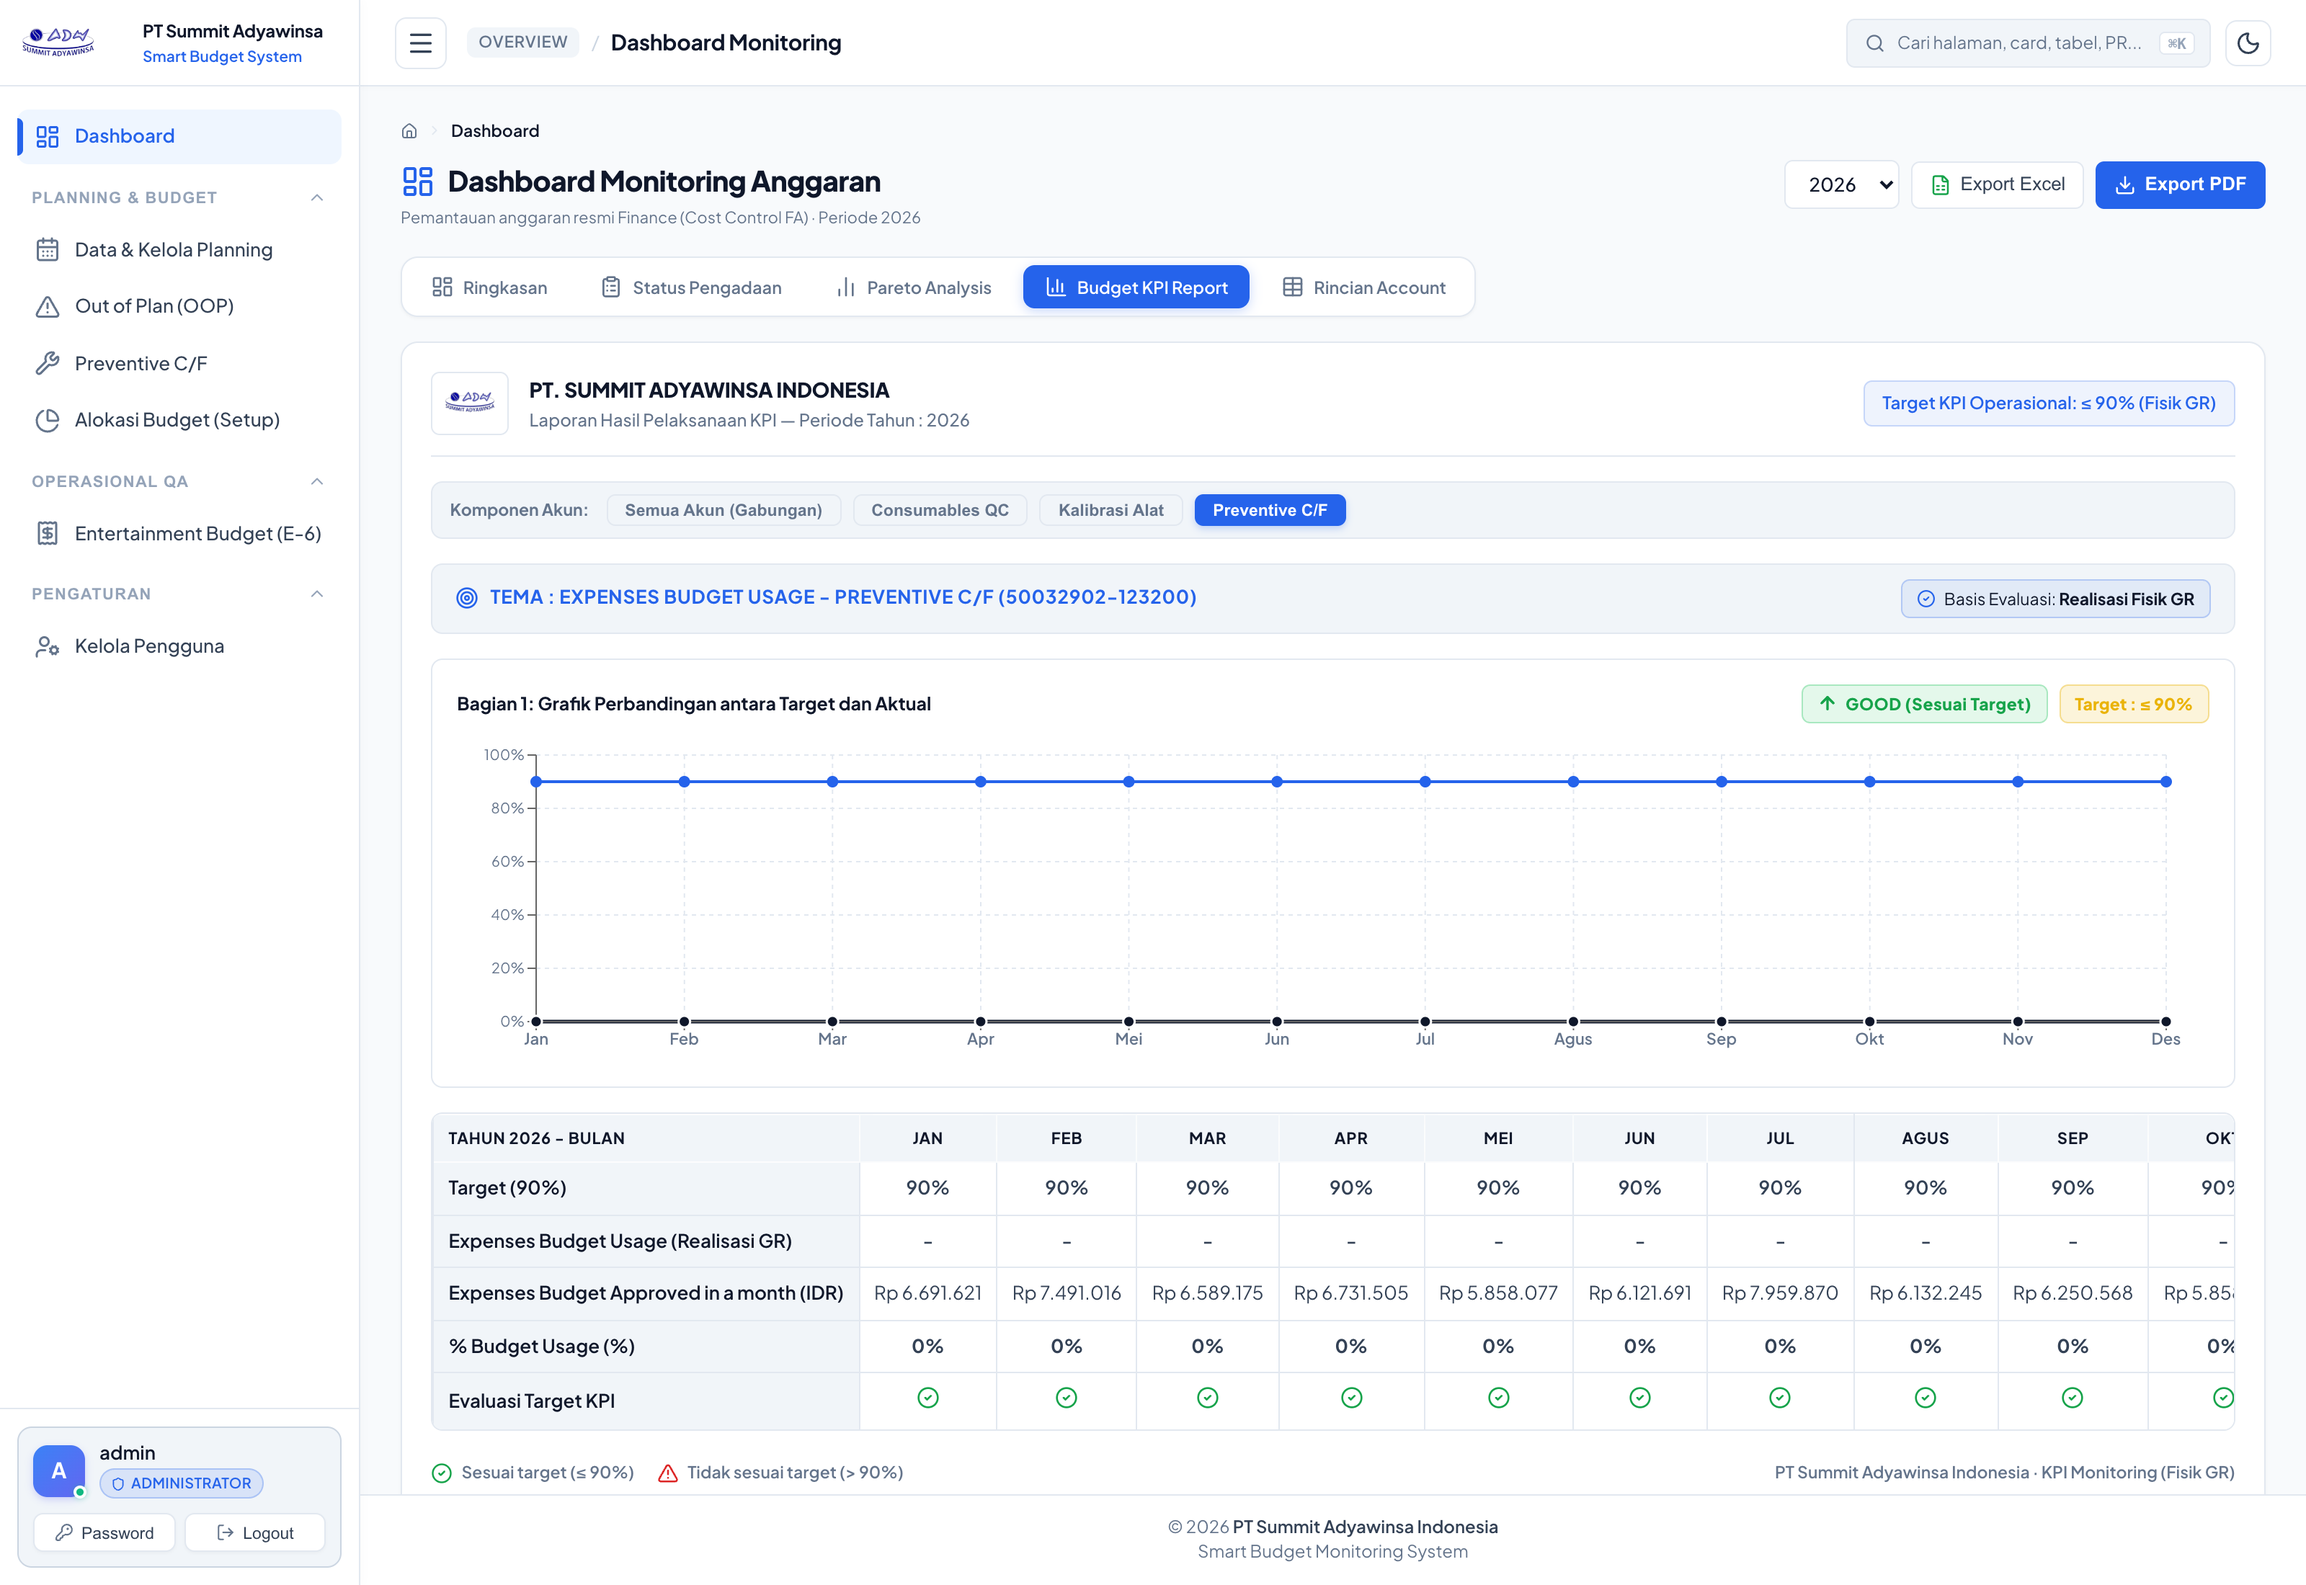
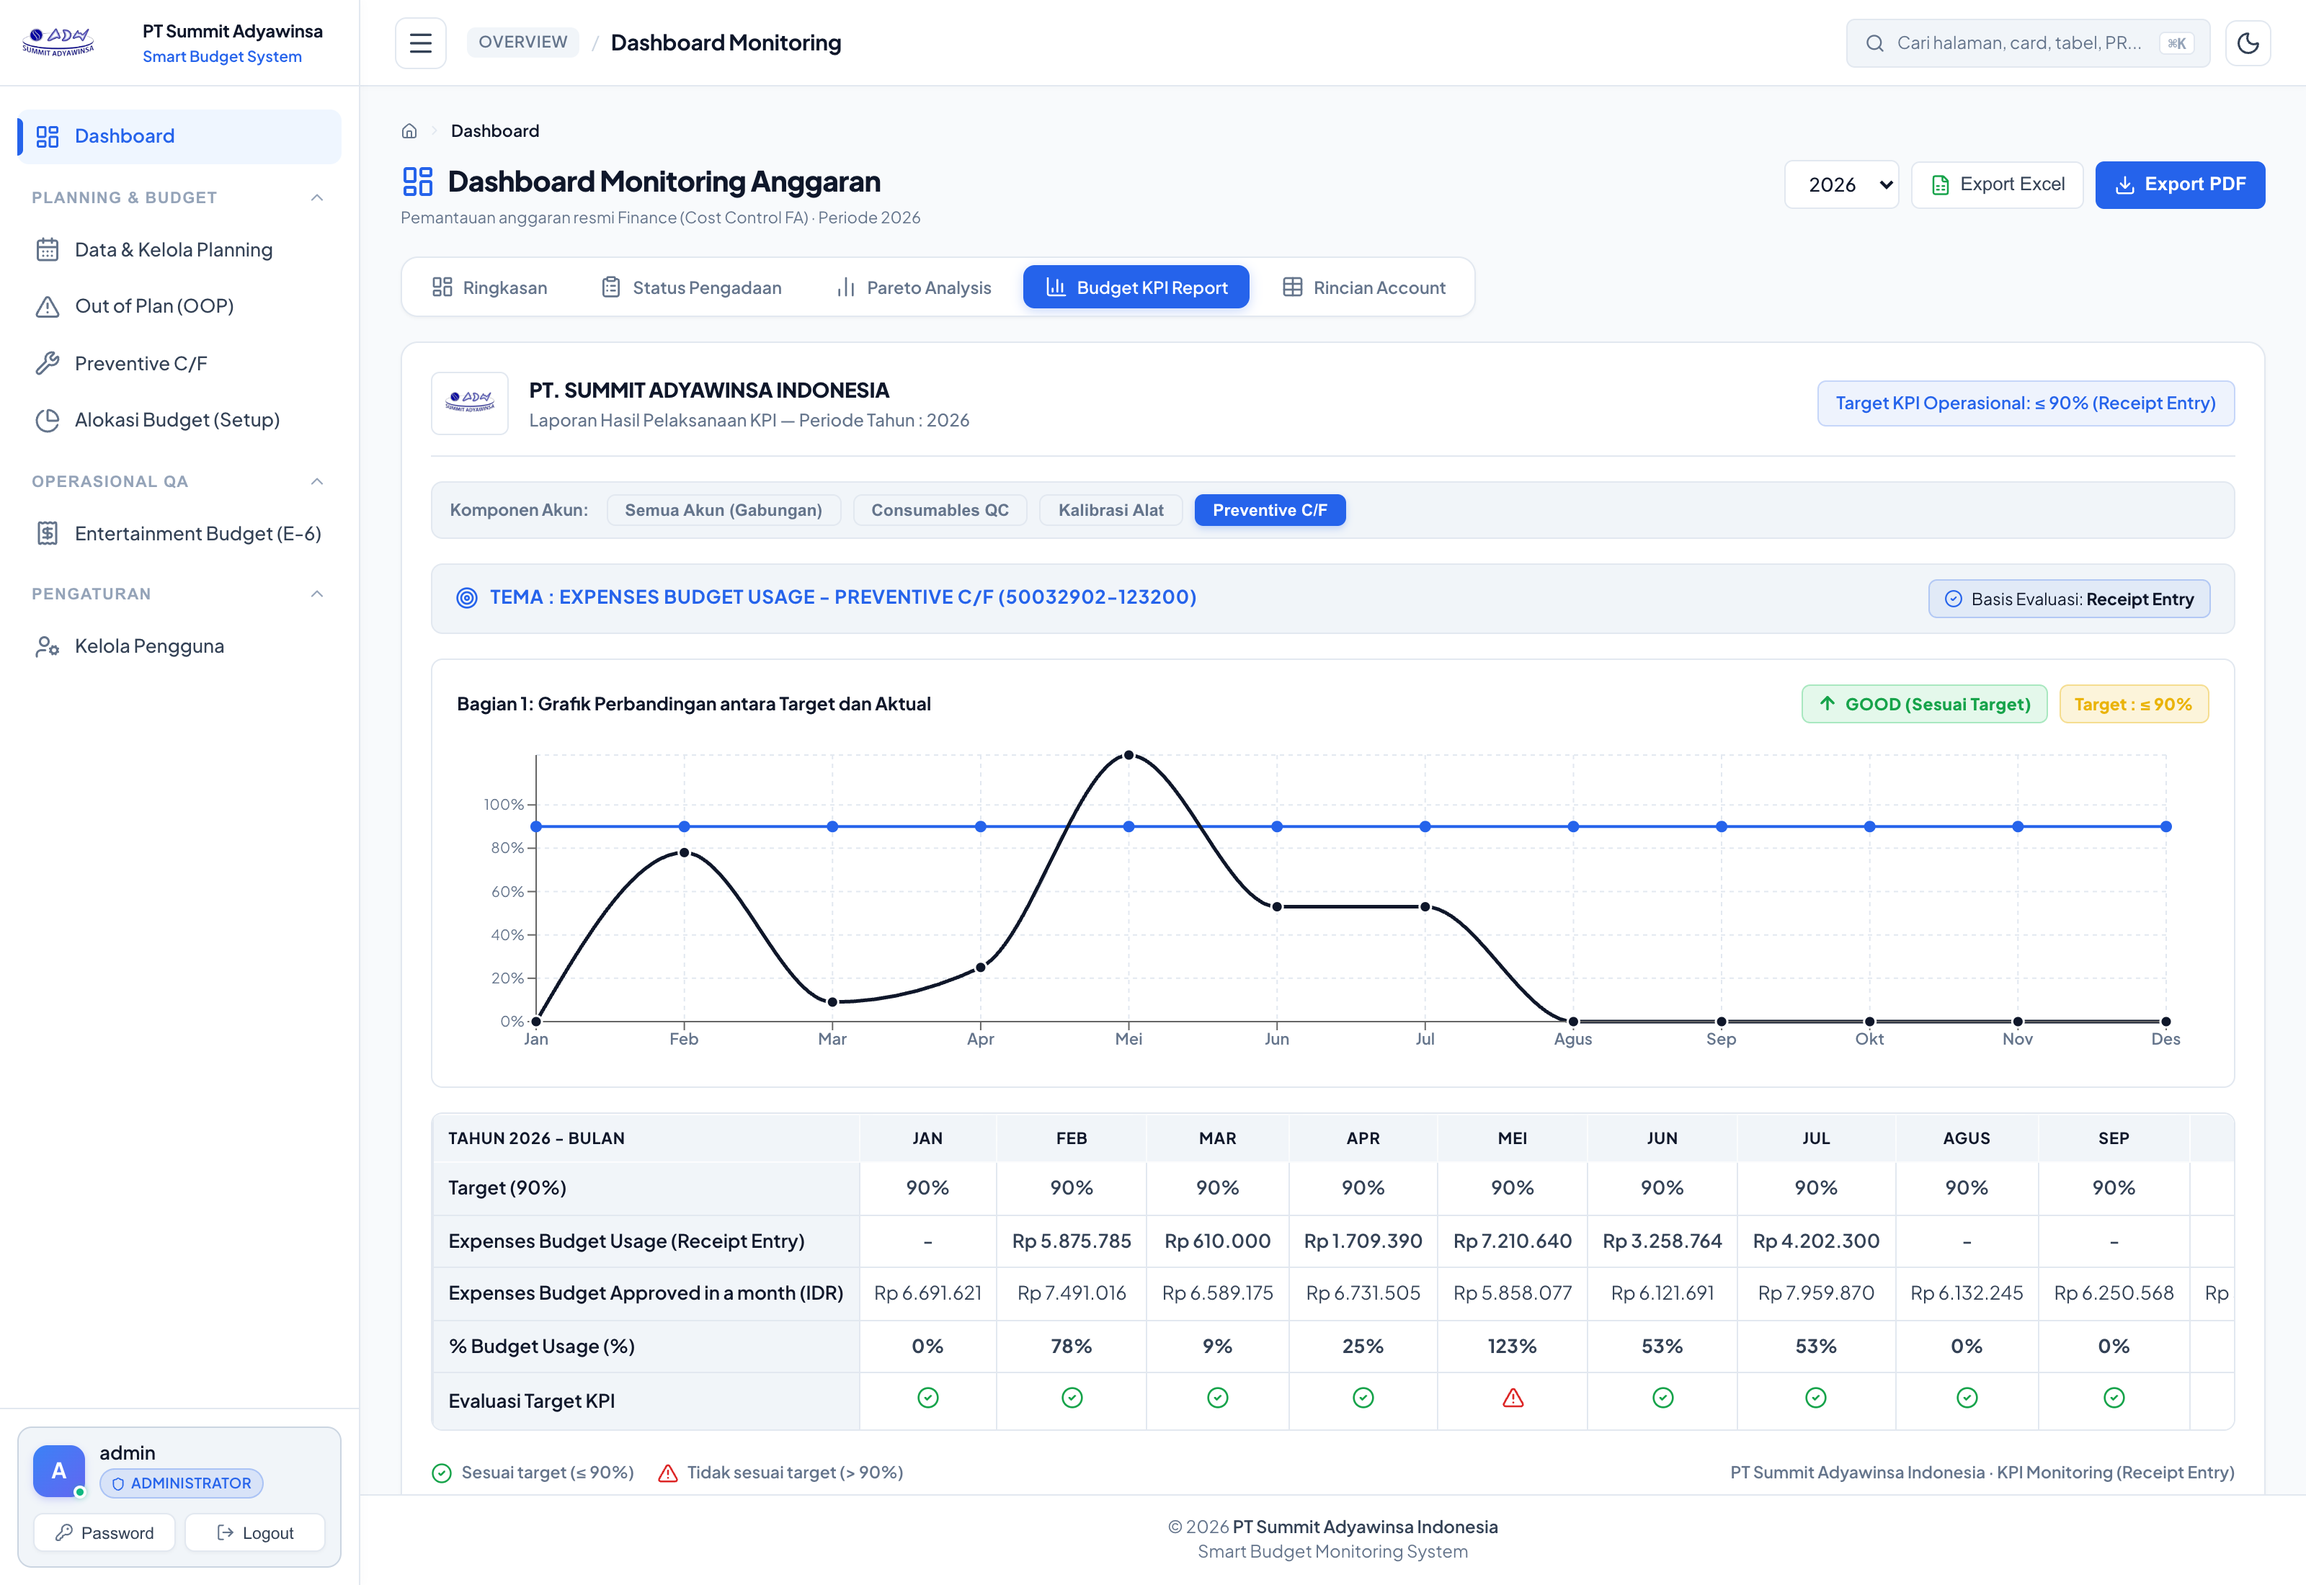
feat: populate Actual Preventive C/F using Receipt Entry and update KPI report labels

diff --git a/frontend/src/components/KpiBudgetUsageReport.jsx b/frontend/src/components/KpiBudgetUsageReport.jsx
@@ -123,10 +123,10 @@ export default function KpiBudgetUsageReport({
                     <div style={{ color: 'var(--primary)' }}>Target KPI: {d?.Target}%</div>
                     <div style={{ color: isGood ? 'var(--success)' : 'var(--danger)', fontWeight: 700, display: 'flex', alignItems: 'center', gap: 4, marginTop: 2 }}>
                         {isGood ? <CheckCircle2 size={13} /> : <AlertTriangle size={13} />}
-                        <span>Realisasi GR: {d?.Actual}% ({isGood ? 'Sesuai Target' : 'Over Target'})</span>
+                        <span>{opexSubTab === 'E9_PREV' ? 'Realisasi (Receipt Entry)' : 'Realisasi GR'}: {d?.Actual}% ({isGood ? 'Sesuai Target' : 'Over Target'})</span>
                     </div>
                     <div style={{ color: 'var(--text-muted)', fontSize: '11px', marginTop: 4 }}>
-                        Budget: {formatRp(d?.approved)} · Realisasi GR: {formatRp(d?.usage)}
+                        Budget: {formatRp(d?.approved)} · {opexSubTab === 'E9_PREV' ? 'Receipt Entry' : 'Realisasi GR'}: {formatRp(d?.usage)}
                     </div>
                 </div>
             )
@@ -174,7 +174,7 @@ export default function KpiBudgetUsageReport({
                             padding: '6px 12px',
                             borderRadius: '6px'
                         }}>
-                            Target KPI Operasional: ≤ 90% (Fisik GR)
+                            Target KPI Operasional: ≤ 90% ({opexSubTab === 'E9_PREV' ? 'Receipt Entry' : 'Fisik GR'})
                         </span>
                     )}
                 </div>
@@ -224,7 +224,7 @@ export default function KpiBudgetUsageReport({
 
                 <div className={s.basisBadge}>
                     <CheckCircle2 size={13} color="var(--primary)" />
-                    <span>Basis Evaluasi: <strong>Realisasi Fisik GR</strong></span>
+                    <span>Basis Evaluasi: <strong>{opexSubTab === 'E9_PREV' ? 'Receipt Entry' : 'Realisasi Fisik GR'}</strong></span>
                 </div>
             </div>
 
@@ -310,7 +310,7 @@ export default function KpiBudgetUsageReport({
                         {/* Baris 2: Budget Usage (IDR) */}
                         <tr className={s.usageRow}>
                             <td className={s.rowHeader}>
-                                {isOpex ? 'Expenses' : 'Asset'} Budget Usage (Realisasi GR)
+                                {isOpex ? 'Expenses' : 'Asset'} Budget Usage ({opexSubTab === 'E9_PREV' ? 'Receipt Entry' : 'Realisasi GR'})
                             </td>
                             {matrix.map(m => (
                                 <td key={m.monthName}>
@@ -338,7 +338,7 @@ export default function KpiBudgetUsageReport({
                                     <td>{formatRp(totalE9CalUsage)}</td>
                                 </tr>
                                 <tr className={s.subRow}>
-                                    <td className={s.rowHeaderSub}>&nbsp;&nbsp;↳ Preventive C/F (50032902)</td>
+                                    <td className={s.rowHeaderSub}>&nbsp;&nbsp;↳ Preventive C/F (Receipt Entry)</td>
                                     {matrix.map(m => (
                                         <td key={m.monthName}>{m.e9PrevUsage > 0 ? formatRp(m.e9PrevUsage) : '-'}</td>
                                     ))}
@@ -422,7 +422,7 @@ export default function KpiBudgetUsageReport({
                     <span>Tidak sesuai target (&gt; {targetKpi}%)</span>
                 </div>
                 <div style={{ marginLeft: 'auto', color: 'var(--text-muted)' }}>
-                    PT Summit Adyawinsa Indonesia · KPI Monitoring (Fisik GR)
+                    PT Summit Adyawinsa Indonesia · KPI Monitoring ({opexSubTab === 'E9_PREV' ? 'Receipt Entry' : 'Fisik GR'})
                 </div>
             </div>
         </div>

diff --git a/backend/services/pipeline_service.py b/backend/services/pipeline_service.py
@@ -2,6 +2,7 @@ import logging
 from models.pr_po_data import PrPoData
 from models.planning_header import PlanningHeader
 from models.planning_detail import PlanningDetail
+from models.preventive_cf import PreventiveCf
 from services.classification_service import ClassificationService
 from services.mapping.advanced_mapping_service import AdvancedMappingService
 from services.budget_monitoring_service import BudgetMonitoringService
@@ -410,6 +411,22 @@ class PipelineService:
                     monthly_pr_sub[m_num]['e1_expense'] += amt
                     if has_gr:
                         monthly_gr_sub[m_num]['e1_expense'] += amt
+
+        # 3b. Ambil data Actual Preventive dari PreventiveCf (Basis: Receipt Entry)
+        prev_actual_rows = (
+            db.session.query(
+                PreventiveCf.bulan_no,
+                func.coalesce(func.sum(PreventiveCf.actual_gl), 0)
+            )
+            .group_by(PreventiveCf.bulan_no)
+            .all()
+        )
+        for b_no, act_val in prev_actual_rows:
+            if b_no and 1 <= int(b_no) <= 12:
+                val = float(act_val or 0.0)
+                m_idx = int(b_no)
+                monthly_gr_sub[m_idx]['e9_preventive'] = val
+                monthly_pr_sub[m_idx]['e9_preventive'] = val
 
         # 4. Ambil status counts PR per bulan (Need Mapping, OOP, On Plan, Over Plan)
         status_rows = (
